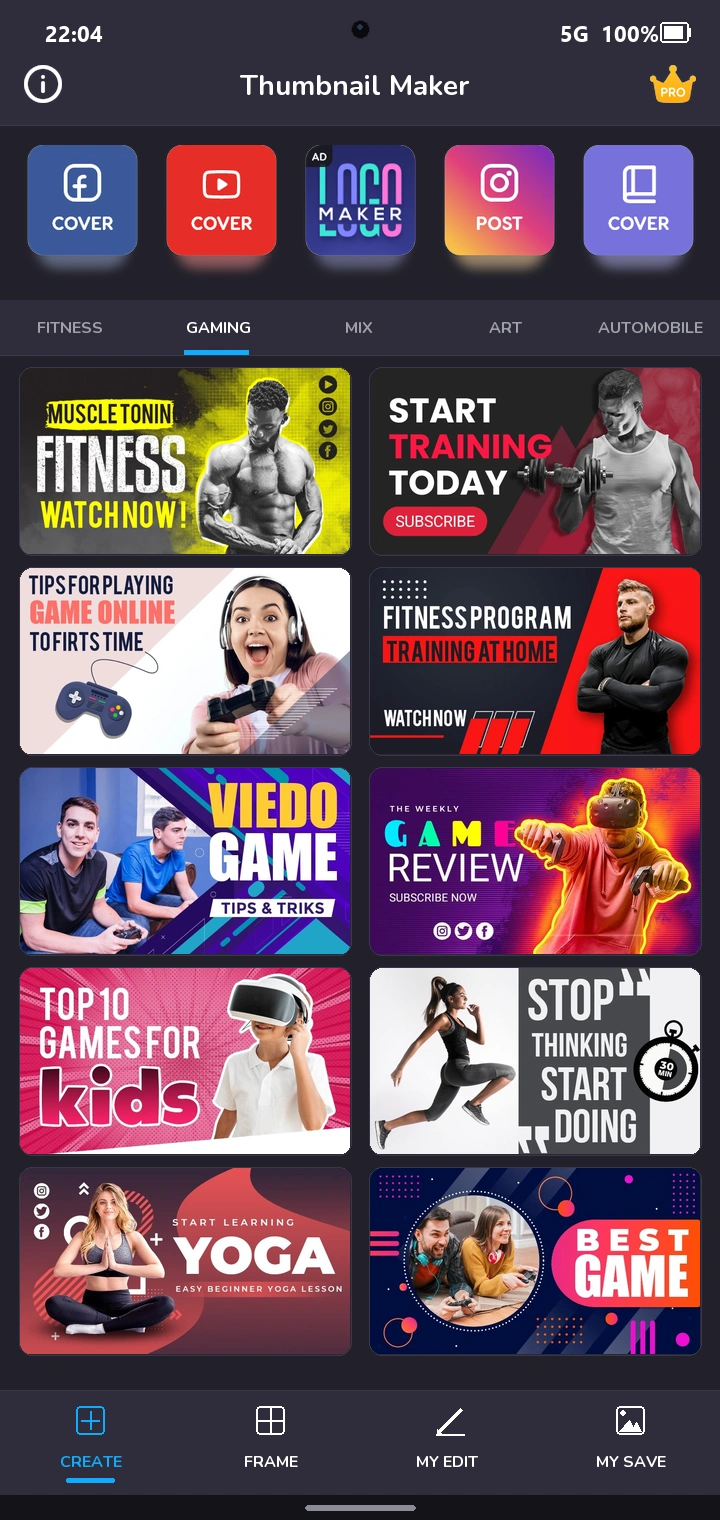
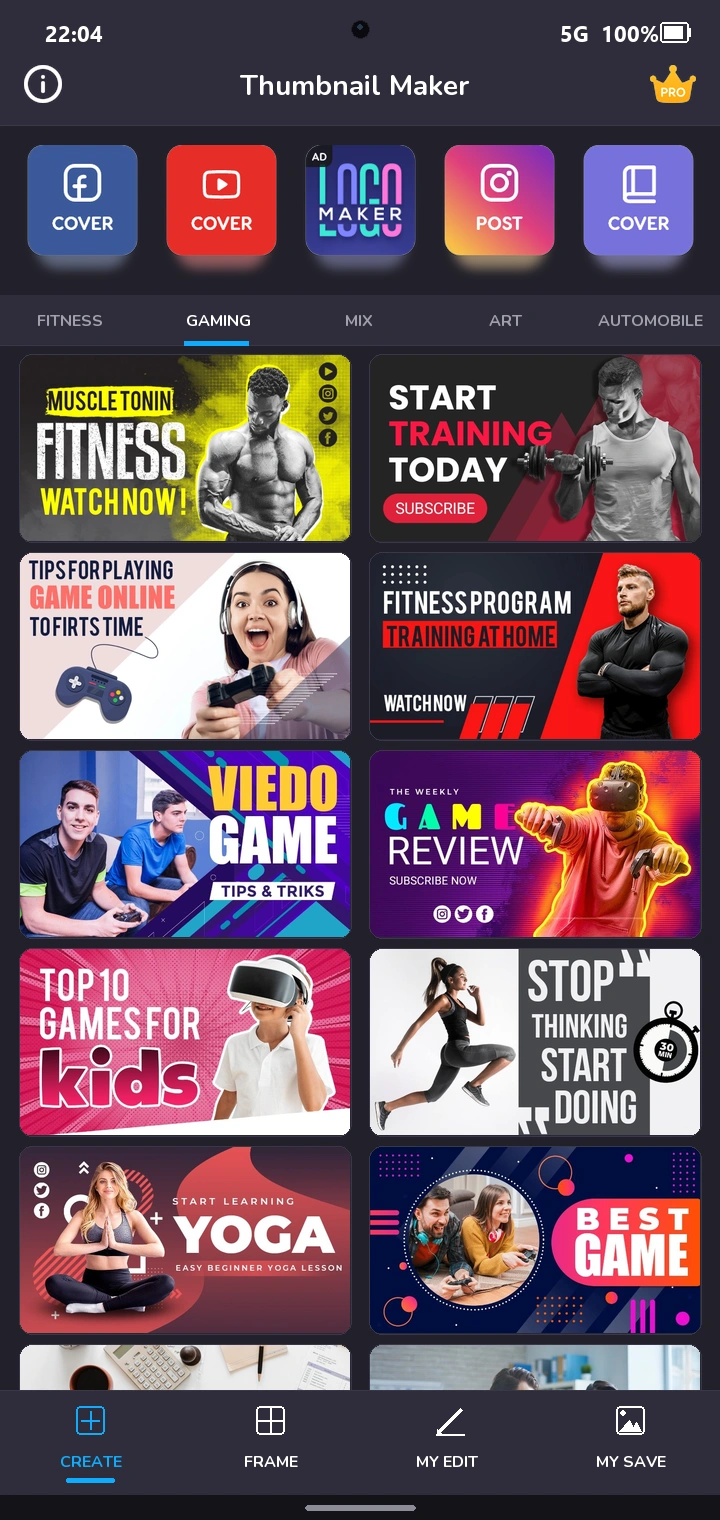
Fill entire screen grid down to bottom dock with authentic 16:9 templates, eliminating empty void

diff --git a/generate_app_screens.py b/generate_app_screens.py
@@ -32,7 +32,7 @@ COLOR_TEXT = (255, 255, 255)
 COLOR_TEXT_MUTED = (160, 160, 168)
 COLOR_CARD_BG = (42, 40, 52)
 
-# Real 16:9 thumbnail templates extracted directly from app cache
+# Real 16:9 thumbnail templates extracted directly from app cache (fills all rows completely)
 REAL_THUMBS_FEED = [
     "real_thumb_15_960x540.jpg",
     "real_thumb_8_960x540.jpg",
@@ -43,19 +43,25 @@ REAL_THUMBS_FEED = [
     "real_thumb_14_706x397.jpg",
     "real_thumb_16_706x397.jpg",
     "real_thumb_28_706x397.jpg",
-    "real_thumb_30_706x397.jpg"
+    "real_thumb_30_706x397.jpg",
+    "real_thumb_12_500x281.jpg",
+    "real_thumb_31_500x281.jpg"
 ]
 
 REAL_THUMBS_TEMPLATES = [
+    "real_thumb_18_500x281.jpg",
     "real_thumb_34_706x397.jpg",
     "real_thumb_21_706x397.jpg",
+    "real_thumb_19_500x281.jpg",
     "real_thumb_23_706x397.jpg",
+    "real_thumb_27_500x281.jpg",
     "real_thumb_4_500x281.jpg",
     "real_thumb_11_500x281.jpg",
-    "real_thumb_12_500x281.jpg",
-    "real_thumb_27_500x281.jpg",
     "real_thumb_9_500x281.jpg",
     "real_thumb_35_500x281.jpg",
+    "real_thumb_17_500x281.jpg",
+    "real_thumb_20_500x281.jpg",
+    "real_thumb_22_500x281.jpg",
     "real_thumb_24_500x281.jpg"
 ]
 
@@ -190,11 +196,11 @@ def make_hero_feed():
             img.paste(cimg, (cx, strip_y), cimg)
             
     # ---------------------------------------------------------
-    # Category Tabs Bar (Height 55px, at y = 300)
+    # Category Tabs Bar (Height 50px, at y = 295)
     # ---------------------------------------------------------
-    tabs_y = 300
-    draw.rectangle((0, tabs_y, W, tabs_y + 55), fill=COLOR_BAR)
-    draw.line((0, tabs_y + 55, W, tabs_y + 55), fill=COLOR_BAR_BORDER, width=1)
+    tabs_y = 295
+    draw.rectangle((0, tabs_y, W, tabs_y + 50), fill=COLOR_BAR)
+    draw.line((0, tabs_y + 50, W, tabs_y + 50), fill=COLOR_BAR_BORDER, width=1)
     
     cat_tabs = ["FITNESS", "GAMING", "MIX", "ART", "AUTOMOBILE"]
     tab_spacing = W // len(cat_tabs)
@@ -202,17 +208,18 @@ def make_hero_feed():
         tx = idx * tab_spacing + tab_spacing // 2
         is_active = (idx == 1) # GAMING active
         t_color = COLOR_TEXT if is_active else COLOR_TEXT_MUTED
-        draw.text((tx - len(tab_name)*5, tabs_y + 16), tab_name, fill=t_color, font=FONT_SMB)
+        draw.text((tx - len(tab_name)*5, tabs_y + 14), tab_name, fill=t_color, font=FONT_SMB)
         if is_active:
             # Cyan indicator line
-            draw.rectangle((tx - 32, tabs_y + 50, tx + 32, tabs_y + 54), fill=COLOR_ACCENT)
+            draw.rectangle((tx - 32, tabs_y + 46, tx + 32, tabs_y + 50), fill=COLOR_ACCENT)
             
     # ---------------------------------------------------------
-    # 2-Column Grid of 16:9 REAL Thumbnails (Exact App CardView Structure)
+    # 2-Column Grid of 16:9 REAL Thumbnails (Fills 100% of height down to bottom dock)
     # ---------------------------------------------------------
-    grid_y = 368
+    grid_y = 355
     cw, ch = 330, 186 # exact 16:9 ratio
     col_x = [20, 370] # 20px margin, 20px gap, 20px right margin (total 720)
+    gap_y = 12
     
     mask = Image.new("L", (cw, ch), 0)
     mdraw = ImageDraw.Draw(mask)
@@ -222,9 +229,9 @@ def make_hero_feed():
         col = idx % 2
         row = idx // 2
         gx = col_x[col]
-        gy = grid_y + row * (ch + 14)
+        gy = grid_y + row * (ch + gap_y)
         
-        if gy + ch > H - 140:
+        if gy >= 1420:
             break
             
         real_img = load_real_thumb(tfilename, cw, ch)
@@ -234,7 +241,7 @@ def make_hero_feed():
         # Paste real thumbnail image full-bleed inside card
         img.paste(real_img, (gx, gy), mask)
 
-    # Bottom Navigation Dock (CREATE active)
+    # Bottom Navigation Dock (Drawn over grid so cards flow seamlessly under dock)
     draw_bottom_dock(img, draw, active_idx=0)
     return img
 
@@ -281,10 +288,11 @@ def make_templates_screen():
         if is_active:
             draw.rectangle((tx - 28, tabs_y + 50, tx + 28, tabs_y + 54), fill=COLOR_ACCENT)
             
-    # 2-Column Grid of 16:9 REAL Youtube Cover Templates
-    grid_y = 205
+    # 2-Column Grid of 16:9 REAL Youtube Cover Templates (Fills 100% of height down to bottom dock)
+    grid_y = 198
     cw, ch = 330, 186
     col_x = [20, 370]
+    gap_y = 12
     
     mask = Image.new("L", (cw, ch), 0)
     mdraw = ImageDraw.Draw(mask)
@@ -294,9 +302,9 @@ def make_templates_screen():
         col = idx % 2
         row = idx // 2
         gx = col_x[col]
-        gy = grid_y + row * (ch + 14)
+        gy = grid_y + row * (ch + gap_y)
         
-        if gy + ch > H - 140:
+        if gy >= 1420:
             break
             
         real_img = load_real_thumb(tfilename, cw, ch)
